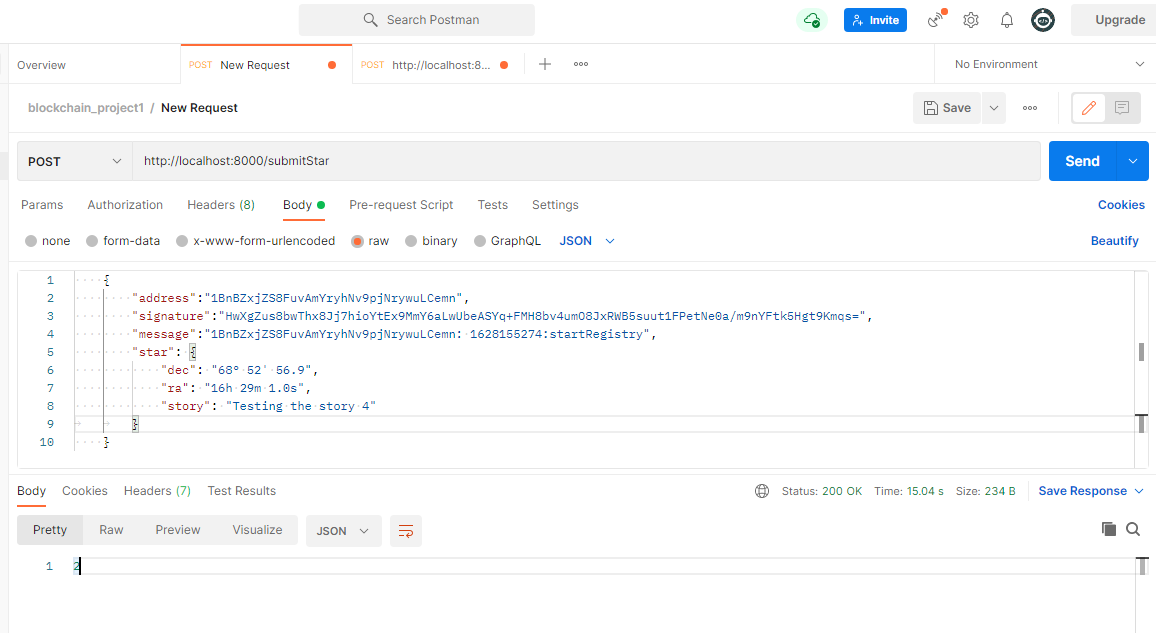
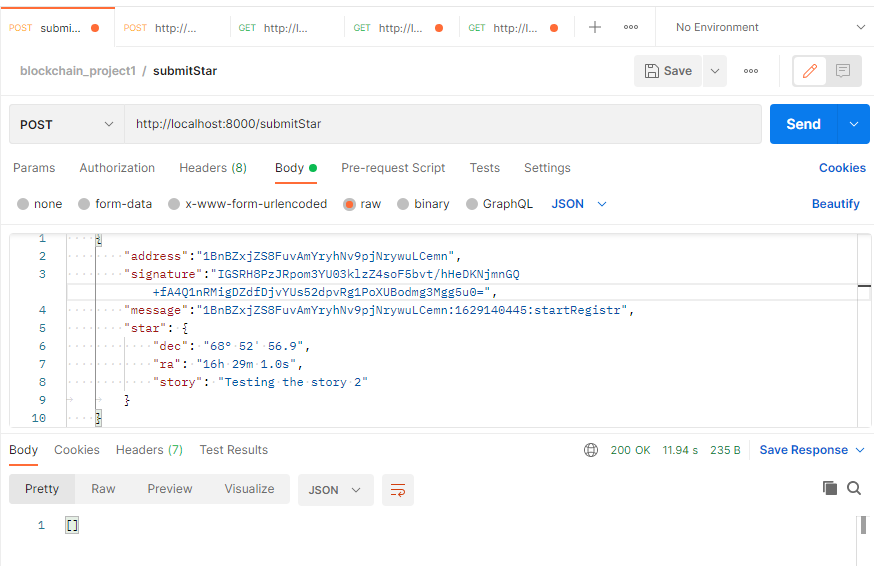
correcting code as per instructor comments

diff --git a/README.md b/README.md
@@ -40,10 +40,10 @@ You should see in your terminal a message indicating that the server is listenin
     Message in Postman:
     ```json
     {
-        "hash": null,
[1 lines of base64/hex data omitted]
         "height": 0,
         "body": "7b2264617461223a2247656e6573697320426c6f636b227d",
-        "time": 0,
+        "time": "1629140281",
         "previousBlockHash": null
     }   
     ```
@@ -72,8 +72,8 @@ You should see in your terminal a message indicating that the server is listenin
     ```json
         {
             "address":"1BnBZxjZS8FuvAmYryhNv9pjNrywuLCemn",
[1 lines of base64/hex data omitted]
-            "message":"1BnBZxjZS8FuvAmYryhNv9pjNrywuLCemn: 1628155274:startRegistry",
[1 lines of base64/hex data omitted]
+            "message":"1BnBZxjZS8FuvAmYryhNv9pjNrywuLCemn:1629140445:startRegistr",
             "star": {
                 "dec": "68° 52' 56.9",
                 "ra": "16h 29m 1.0s",
@@ -90,28 +90,12 @@ You should see in your terminal a message indicating that the server is listenin
     ```json
         [
             {
-                "star": {
+                "owner": "1BnBZxjZS8FuvAmYryhNv9pjNrywuLCemn",
+                "data": {
                     "dec": "68Â° 52' 56.9",
                     "ra": "16h 29m 1.0s",
                     "story": "Testing the story 2"
-                },
-                "owner": "1BnBZxjZS8FuvAmYryhNv9pjNrywuLCemn"
-            },
-            {
-                "star": {
-                    "dec": "68Â° 52' 56.9",
-                    "ra": "16h 29m 1.0s",
-                    "story": "Testing the story 2"
-                },
-                "owner": "1BnBZxjZS8FuvAmYryhNv9pjNrywuLCemn"
-            },
-            {
-                "star": {
-                    "dec": "68Â° 52' 56.9",
-                    "ra": "16h 29m 1.0s",
-                    "story": "Testing the story 2"
-                },
-                "owner": "1BnBZxjZS8FuvAmYryhNv9pjNrywuLCemn"
+                }
             }
         ]
     ```
